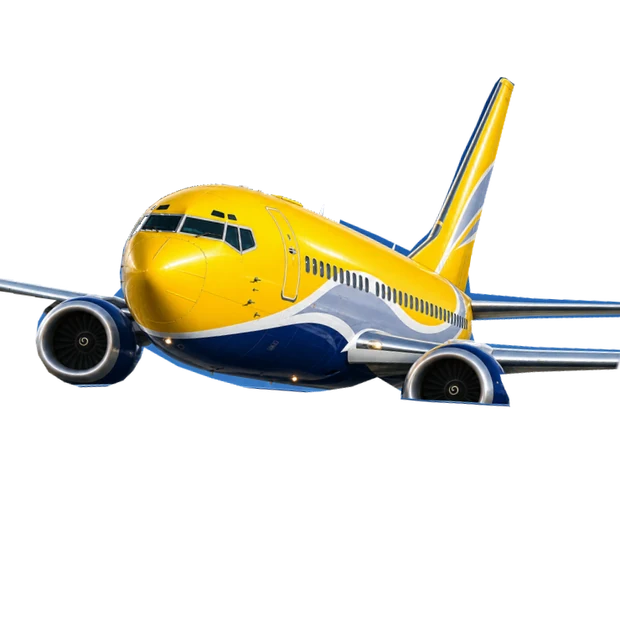
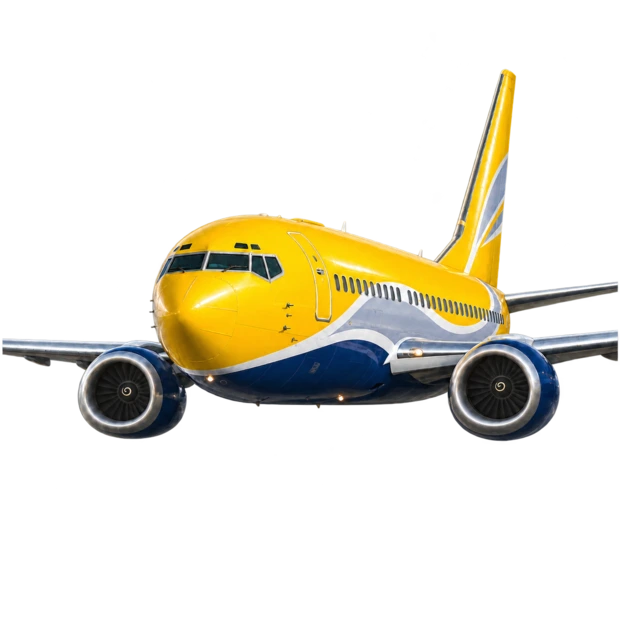
Animate the QRH and Procedure Trainer welcome screen

Changed region(s): [[0.0, 0.0919, 1.0, 0.7355]]

diff --git a/panel-mosaic-lab/cockpit/index.html b/panel-mosaic-lab/cockpit/index.html
@@ -216,7 +216,7 @@ body > header.unified-minimal-header .header-settings>button{
 </style><link rel="stylesheet" href="./unified-css-safe-04-v1.css?v=BOOT-SAFE-0001">
 <script src="./smiths-fuel-quantity-v1.js?v=FUEL-QTY-20KG-0001" defer></script>
 <link rel="stylesheet" href="./unified-workspace-v1.css?v=WORKSPACE-0002">
-<link rel="stylesheet" href="./unified-welcome-v1.css?v=WELCOME-0004">
+<link rel="stylesheet" href="./unified-welcome-v1.css?v=WELCOME-0005">
 <script>
 (function(){
  const test=new URLSearchParams(location.search).get('welcomeTest')==='1';
@@ -229,36 +229,33 @@ body > header.unified-minimal-header .header-settings>button{
 <section id="unifiedWelcome" data-stage="welcome" aria-labelledby="unifiedWelcomeTitle" hidden>
  <div class="welcome-card">
   <div class="welcome-intro" aria-hidden="true">
-   <div class="welcome-intro-window"><div class="welcome-intro-jet"></div></div>
+   <div class="welcome-intro-airspace">
+    <div class="welcome-intro-depth"><div class="welcome-intro-jet"></div></div>
+   </div>
+   <div class="welcome-intro-orbit"></div>
    <svg class="welcome-intro-flight" viewBox="0 0 620 620" focusable="false">
     <defs>
-     <linearGradient id="unifiedIntroContrail" gradientUnits="userSpaceOnUse" x1="312" x2="549" y1="493" y2="414">
+     <linearGradient id="unifiedIntroContrail" gradientUnits="userSpaceOnUse" x1="312" x2="481" y1="493" y2="427">
       <stop offset="0" stop-color="#fff" stop-opacity=".28"/>
       <stop offset="1" stop-color="#fff"/>
      </linearGradient>
     </defs>
-    <path id="unifiedIntroFlightPath" d="M 312 493 C 322 469 335 445 363 441 C 422 432 496 446 549 414"
+    <path id="unifiedIntroFlightPath" d="M 312 493 C 321 469 329 451 354 446 C 393 435 431 430 481 427"
       pathLength="1" fill="none" stroke="url(#unifiedIntroContrail)" stroke-width="4.4" stroke-linecap="round"
       stroke-dasharray="1 1" stroke-dashoffset="1">
-     <animate attributeName="stroke-dashoffset" from="1" to="0" begin="1.2s" dur="2.3s"
+     <animate attributeName="stroke-dashoffset" from="1" to="0" begin=".84s" dur="1.85s"
        calcMode="spline" keyTimes="0;1" keySplines=".33 0 .27 1" fill="freeze"/>
     </path>
-    <path class="welcome-intro-red-arc" d="M 425.2 541.6 A 98 38 -12 0 0 575.1 466.4" pathLength="1"
-      fill="none" stroke="#f53942" stroke-width="5.5" stroke-linecap="round"
-      stroke-dasharray="1 1" stroke-dashoffset="1">
-     <animate attributeName="stroke-dashoffset" from="1" to="0" begin="2.05s" dur="1.05s"
-       calcMode="spline" keyTimes="0;1" keySplines=".3 0 .24 1" fill="freeze"/>
-    </path>
     <g visibility="hidden">
-     <set attributeName="visibility" to="visible" begin="1.2s" fill="freeze"/>
-     <animateMotion begin="1.2s" dur="2.3s" rotate="auto" calcMode="spline"
+     <set attributeName="visibility" to="visible" begin=".84s" fill="freeze"/>
+     <animateMotion begin=".84s" dur="1.85s" rotate="auto" calcMode="spline"
        keyPoints="0;1" keyTimes="0;1" keySplines=".33 0 .27 1" fill="freeze">
       <mpath href="#unifiedIntroFlightPath"/>
      </animateMotion>
      <g>
       <animateTransform attributeName="transform" type="scale" values=".14;.65;1;1"
-        keyTimes="0;.22;.48;1" begin="1.2s" dur="2.3s" fill="freeze"/>
-      <image href="./brand/unified-intro-white.webp?v=WELCOME-0003" x="-4" y="-15" width="51" height="28" transform="rotate(9)"/>
+        keyTimes="0;.22;.48;1" begin=".84s" dur="1.85s" fill="freeze"/>
+      <image href="./brand/unified-intro-white.webp?v=WELCOME-0003" x="-4" y="-22" width="82" height="45" transform="rotate(3)"/>
      </g>
     </g>
    </svg>
@@ -266,7 +263,7 @@ body > header.unified-minimal-header .header-settings>button{
   </div>
   <div class="welcome-brand">
    <img src="./brand/unified-icon-192.webp" width="58" height="58" alt="">
-   <h1 id="unifiedWelcomeTitle" tabindex="-1">B737 Classic Unified Trainer</h1>
+   <h1 id="unifiedWelcomeTitle" tabindex="-1">B737CL QRH &amp; Procedure Trainer</h1>
   </div>
   <div id="unifiedWelcomeSetup" class="welcome-setup" hidden>
    <section id="unifiedWelcomeAircraft" class="welcome-section"><h2>Aircraft Configuration</h2></section>
@@ -556,5 +553,5 @@ body > header.unified-minimal-header .header-settings>button{
 <script defer src="./tcas-photo/ivsi.js"></script>
 <script src="./landing-gear-unified-v1.js?v=ATA32-GEAR-0005" defer></script>
 <script src="./unified-workspace-v1.js?v=WORKSPACE-0002-P15-CTR-0043" defer></script>
-<script src="./unified-welcome-v1.js?v=WELCOME-0001" async></script>
+<script src="./unified-welcome-v1.js?v=WELCOME-0005" async></script>
 </body></html>

diff --git a/panel-mosaic-lab/cockpit/unified-welcome-v1.css b/panel-mosaic-lab/cockpit/unified-welcome-v1.css
@@ -26,12 +26,16 @@
   gap: 16px;
 }
 #unifiedWelcome[data-stage="welcome"] .welcome-brand {
-  position: absolute;
-  width: 1px;
-  height: 1px;
-  overflow: hidden;
-  clip-path: inset(50%);
-  white-space: nowrap;
+  justify-content: center;
+  margin-top: clamp(12px, 2.4vh, 24px);
+  text-align: center;
+  animation: unified-intro-title .74s ease-out 1.9s both;
+}
+#unifiedWelcome[data-stage="welcome"] .welcome-brand img { display: none; }
+#unifiedWelcome[data-stage="welcome"] .welcome-brand h1 {
+  font-size: clamp(17px, 3.9vw, 28px);
+  line-height: 1.2;
+  text-wrap: balance;
 }
 
 #unifiedWelcome .welcome-intro { display: none; }
@@ -46,8 +50,10 @@
   background: url("./brand/unified-intro-frame.webp") center / contain no-repeat;
   filter: drop-shadow(0 22px 38px #0009);
 }
-#unifiedWelcome .welcome-intro-window,
+#unifiedWelcome .welcome-intro-airspace,
+#unifiedWelcome .welcome-intro-depth,
 #unifiedWelcome .welcome-intro-jet,
+#unifiedWelcome .welcome-intro-orbit,
 #unifiedWelcome .welcome-intro-wordmark,
 #unifiedWelcome .welcome-intro-flight {
   position: absolute;
@@ -55,14 +61,21 @@
   background-size: contain;
   background-repeat: no-repeat;
 }
-#unifiedWelcome .welcome-intro-window {
-  /* Fixed foreground trim masks the jet except at its raised nose. */
-  -webkit-mask: url("./brand/unified-intro-window.webp") center / contain no-repeat;
-  mask: url("./brand/unified-intro-window.webp") center / contain no-repeat;
+#unifiedWelcome .welcome-intro-airspace {
+  /* Clip to the silver rim while the aircraft passes over both color panels. */
+  clip-path: inset(1.3% round 25%);
+}
+#unifiedWelcome .welcome-intro-depth {
+  animation: unified-intro-depth 1.45s cubic-bezier(.32,.12,.3,1) both;
 }
 #unifiedWelcome .welcome-intro-jet {
-  background-image: url("./brand/unified-intro-aircraft.webp");
-  animation: unified-intro-arrive 2.8s cubic-bezier(.22,.65,.35,1) .12s both;
+  background-image: url("./brand/unified-intro-aircraft.webp?v=WELCOME-0005");
+  transform-origin: 25% 44%;
+  animation: unified-intro-arrive 2.64s cubic-bezier(.24,.63,.37,1) both;
+}
+#unifiedWelcome .welcome-intro-orbit {
+  background-image: url("./brand/unified-intro-orbit.webp");
+  animation: unified-intro-orbit .86s cubic-bezier(.3,0,.24,1) 1.48s both;
 }
 #unifiedWelcome .welcome-intro-flight {
   width: 100%;
@@ -72,8 +85,23 @@
   background-image: url("./brand/unified-intro-wordmark.webp");
 }
 @keyframes unified-intro-arrive {
-  from { transform: translate(92%, 13%); }
-  to { transform: none; }
+  from { opacity: .25; transform: translateY(-.8%) scale(1); }
+  18% { opacity: 1; }
+  59% { opacity: 1; transform: translate(-5.3%, -6%) scale(1.14); }
+  to { opacity: 0; transform: translate(-5.8%, -6.3%) scale(1.17); }
+}
+@keyframes unified-intro-depth {
+  from { clip-path: polygon(0 0, 100% 0, 100% 62.5%, 70% 65%, 42% 68.5%, 0 74.7%); }
+  to { clip-path: polygon(0 0, 100% 0, 100% 100%, 70% 100%, 42% 100%, 0 100%); }
+}
+@keyframes unified-intro-orbit {
+  from { opacity: 0; clip-path: inset(0 100% 0 0); }
+  28% { opacity: 1; }
+  to { opacity: 1; clip-path: inset(0); }
+}
+@keyframes unified-intro-title {
+  from { opacity: 0; }
+  to { opacity: 1; }
 }
 #unifiedWelcome .welcome-brand img {
   width: 58px;
@@ -136,7 +164,7 @@
 }
 #unifiedWelcome[data-stage="welcome"] .welcome-footer {
   justify-content: center;
-  margin-top: clamp(16px, 4vh, 28px);
+  margin-top: clamp(10px, 2vh, 20px);
 }
 #unifiedWelcome .welcome-progress { display: flex; align-items: center; gap: 10px; color: #c4dce6; }
 #unifiedWelcome .welcome-spinner {
@@ -163,10 +191,12 @@
 @media (max-width: 680px) { #unifiedWelcome .welcome-setup { grid-template-columns: minmax(0, 1fr); } }
 @media (prefers-reduced-motion: reduce) {
   #unifiedWelcome[data-stage="welcome"] .welcome-intro {
-    background-image: url("./brand/unified-intro-still.webp?v=WELCOME-0004");
+    background-image: url("./brand/unified-intro-still.webp?v=WELCOME-0005");
   }
-  #unifiedWelcome .welcome-intro-window,
+  #unifiedWelcome .welcome-intro-airspace,
+  #unifiedWelcome .welcome-intro-orbit,
   #unifiedWelcome .welcome-intro-wordmark,
   #unifiedWelcome .welcome-intro-flight { display: none; }
+  #unifiedWelcome[data-stage="welcome"] .welcome-brand,
   #unifiedWelcome .welcome-spinner { animation: none; }
 }

diff --git a/panel-mosaic-lab/cockpit/unified-welcome-v1.js b/panel-mosaic-lab/cockpit/unified-welcome-v1.js
@@ -6,6 +6,7 @@
   const stage = doc.documentElement.dataset;
   if (stage.unifiedWelcome !== 'active') return;
 
+  const introTitle = welcome.querySelector('.welcome-brand');
   const progress = by('unifiedWelcomeStatus');
   const start = by('unifiedWelcomeStart');
   const retry = by('unifiedWelcomeRetry');
@@ -167,7 +168,9 @@
     const {main, throttle, forward, aft, pedestal} = panelReadiness();
     const priorityReady = main && throttle && forward;
     const panelComplete = priorityReady && aft && pedestal;
-    if (priorityReady && !setup) showSetup();
+    if (priorityReady && !setup && !introTitle.getAnimations().some(animation =>
+      animation.animationName === 'unified-intro-title' && animation.playState !== 'finished'
+    )) showSetup();
     if (panelComplete) releaseSystems();
     if (panelComplete && startRequested) beginFlight();
     if (welcome.hidden) {
